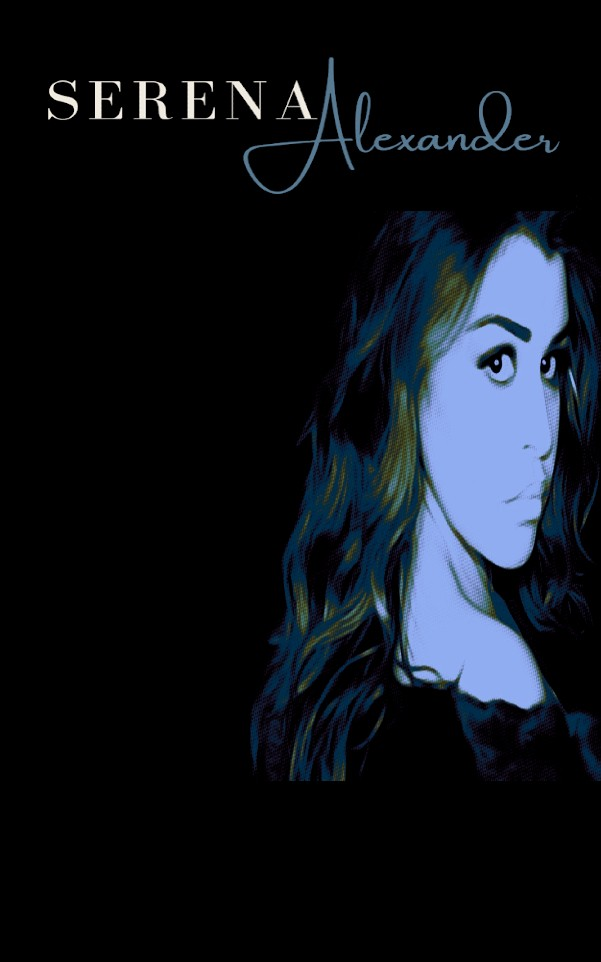
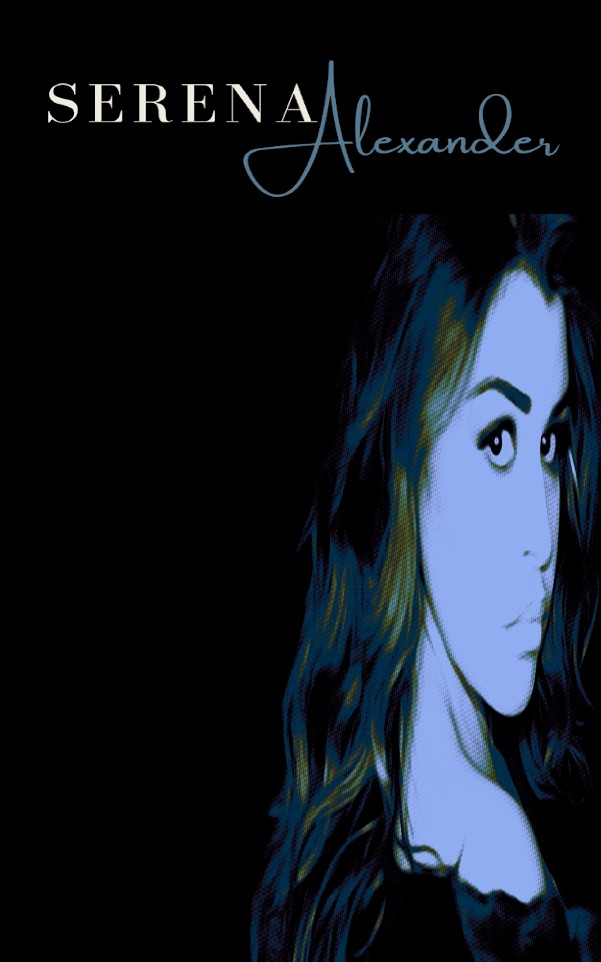
Completed first iteration of mobile site

diff --git a/style.css b/style.css
@@ -9,30 +9,31 @@ body, html {
     font-weight: 400;
     font-style: normal;
     text-align: center;
+    font-size: 1.0919rem;
 }
-.item-list{
-    list-style-type: none;
-    color: #FFFFFF;
-    font-family: "aileron", sans-serif;
-}
+
 a {
     color: #FFFFFF;
 }
-#email {
-    font-weight: 700;
+
+a:link, a:visited {
+    text-decoration: none;
 }
+
 #events-headline {
     color: #A9B369;
     font-family: "aileron", sans-serif;
     font-weight: 700;
+    font-size: 1.2419rem;
 }
 .events-show {
     color: #FFFFFF;
     font-family: "aileron", sans-serif;
     font-weight: 700;
     padding-bottom: 5%;
+    font-size: 0.9919rem;
 }
-.bg {
+.bg-mobile {
     background-image: url("assets/mobile.jpg");
     height: 50%;
     background-repeat: no-repeat;
@@ -46,16 +47,74 @@ a {
 }
 #bio, #events {
     text-align: center;
+    margin-left: 3%;
+    margin-right: 3%;
 }
 /* Social Media Icons*/
 [class*="fa-square"] {
     color: #577992;
-    padding-right: 4%;
+    padding-right: 2%;
     padding-bottom: 6%;
 }
+.fa-mobile{
+    padding-left: 2%;
+}
+.fa {
+    padding: 2.5%;
+    font-size: 2rem;
+    width: 4%;
+    text-align: center;
+    text-decoration: none;
+    border-radius: 50%;
+    margin-right: 1.5%;
+}
+  
+/* Add a hover effect if you want */
+.fa:hover {
+    opacity: 0.7;
+}
+.fa-facebook {
+    background: #577992;
+    color: #000000;
+    border-radius: 50%;
+  }
+.fa-twitter {
+    background: #577992;
+    color: #000000;
+    border-radius: 50%;
+}
+.fa-youtube {
+    background: #577992;
+    color: #000000;
+    border-radius: 50%;
+}  
+.fa-instagram {
+    background: #577992;
+    color: #000000;
+    border-radius: 50%;
+}
+/**********************/
+#email-footer {
+    color: #FFFFFF;
+    font-size: 0.9831rem;
+    font-family: "aileron", sans-serif;
+    font-weight: 700;
+    text-align: center;
+}
+#socials-list{
+    text-align: center;
+    margin-top: 5%;
+    padding-top: 2%;
+    padding-bottom: 10%;
+}
+#contact {
+    display: none;
+}
+
+
 /*=================== Tablet ====================================*/
 @media only screen and (min-width: 601px){
-    .bg {
+    .bg-tab {
         background-image: url("assets/tablet.jpg");
         height: 100%;
         background-repeat: no-repeat;
@@ -63,13 +122,40 @@ a {
         background-size: cover;
         background-color: #000000;
         max-width: 100%;
-    
     }
+    .artist-info{
+        position: relative;
+        top: 15%;
+        width: 45%;
+        padding: 5%;
+    }
+    .item-list {
+        padding-left: 0;
+    }
+    [class*="fa-square"] {
+        color: #577992;
+        padding-right: 2%;
+        padding-bottom: 2%;
+    }
+    #bio {
+        color: #F0EBE1;
+        font-family: "aileron", sans-serif;
+        font-weight: 400;
+        font-style: normal;
+        text-align: left;
+    }
+    #events {
+        text-align: left;
+    }
+    .bg-mobile {
+        display: none;
+    }
+
 }
 
 /*=================== Desktop ====================================*/
 @media only screen and (min-width: 1280px){
-    .bg {
+    .bg-desk {
         background-image: url("assets/desktop.jpg");
         height: 100%;
         background-repeat: no-repeat;
@@ -77,6 +163,45 @@ a {
         background-size: cover;
         background-color: #000000;
         max-width: 100%;
-    
+    }
+    .artist-info{
+        position: relative;
+        top: 25%;
+        width: 45%;
+        padding: 5%;
+    }
+    .item-list {
+        padding-left: 0;
+    }
+    [class*="fa-square"] {
+        color: #577992;
+        padding-right: 2%;
+        padding-bottom: 2%;
+    }
+    #bio {
+        color: #F0EBE1;
+        font-family: "aileron", sans-serif;
+        font-weight: 400;
+        font-style: normal;
+        text-align: left;
+    }
+    #events {
+        text-align: left;
+    }
+    .bg-mobile, #mobile-footer {
+        display: none;
+    }
+    #contact {
+        display: inherit;
+        padding-left: 3%;
+        width: 100%;
+    }
+    .item-list{
+        list-style-type: none;
+        color: #FFFFFF;
+        font-family: "aileron", sans-serif;
+    }
+    #email {
+        font-weight: 700;
     }
 }

diff --git a/index.html b/index.html
@@ -8,10 +8,11 @@
         <meta name="viewport" content="width=device-width, initial-scale=1.0">
         <link rel="stylesheet" href="style.css">
         <link rel="stylesheet" href="https://use.typekit.net/ugv3ygy.css">
+        <link rel="stylesheet" href="https://cdnjs.cloudflare.com/ajax/libs/font-awesome/4.7.0/css/font-awesome.min.css">
         <script src="https://kit.fontawesome.com/bd012d931d.js" crossorigin="anonymous"></script>
     </head>
-    <body>
-        <div class="bg" id="background-img">
+    <body class="bg-desk bg-tab">
+        <div id="background" class="bg-mobile">
         </div>
         <div class="artist-info">
             <div id="bio">
@@ -21,23 +22,19 @@
                     pushes the boundaries of pop music. I honed my singing skills at the American Musical 
                     and Dramatic Academy and have been recognized locally for my performances 
                     and hosting roles. 
-                </p>
-                <p>
                     In addition to my artistic career, I have a business degree, triumphed in singing competitions 
                     and  I've even performed for the President of Sicily! 
-                </p>
-                <p>
                     I'm currently writing new music that blends my eclectic influences with fresh ideas.
                 </p>
             </div>
             <div id="contact">
-                <div>
+                <div id="desktop-socials">
                     <ul id="socials-list" class="item-list">
                         <li id="instagram" class="contact-no-bullet"><a href="https://www.instagram.com/serena.singer/" target="_blank" ><i class="fa-brands fa-square-instagram fa-xl"></i>@serena.singer</a></li>
                         <li id="twitter" class="contact-no-bullet"><a href="https://twitter.com/serenasinger8" target="_blank"><i class="fa-brands fa-square-twitter fa-xl"></i>@serenasinger8</a></li>
                         <li id="youtube" class="contact-no-bullet"><a href="https://www.youtube.com/@serenasinger1035" target="_blank"><i class="fa-brands fa-square-youtube fa-xl"></i>@serenasinger1035</a></li>
                         <li id="facebook" class="contact-no-bullet"><a href="https://www.facebook.com/serenasingerinc" target="_blank"><i class="fa-brands fa-square-facebook fa-xl"></i>Facebook.com/serenasingerinc</a></li>
-                        <li id="email" class="contact-no-bullet"><a href=mailto:"serena@serenasinger.com"><i class="fa-solid fa-square-envelope fa-xl    "></i>serena@serenasinger.com</a></li>
+                        <li id="email" class="contact-no-bullet"><a href=mailto:"serena@serenasinger.com"><i class="fa-solid fa-square-envelope fa-xl"></i>serena@serenasinger.com</a></li>
                     </ul>
                 </div>
             </div>
@@ -47,6 +44,15 @@
                 <p class="events-show"><a href="https://www.empireoutlets.nyc/events/summer-nights-vendor-market/" target="_blank">7/14/23 EMPIRE OUTLETS 5:30PM-6:30PM</a></p>
                 
             </div>
+            <div id="mobile-footer">
+                <div id="email-footer" class="contact-no-bullet"><a href="mailto:serena@serenasinger.com"><i class="fa-solid fa-square-envelope fa-2xl"></i>SERENA@SERENASINGER.COM</a></div>
+                <div id="socials-list">
+                    <a id="instagram" class="fa fa-instagram contact-no-bullet" href="https://www.instagram.com/serena.singer/" target="_blank" ></a>
+                    <a id="twitter" class="fa fa-twitter contact-no-bullet" href="https://twitter.com/serenasinger8" target="_blank"></a>
+                    <a id="youtube" class="fa fa-youtube contact-no-bullet" href="https://www.youtube.com/@serenasinger1035" target="_blank"></a>
+                    <a id="facebook" class="fa fa-facebook contact-no-bullet" href="https://www.facebook.com/serenasingerinc" target="_blank"></a>
+                </div>
+            </div>    
         </div>
     </body>
 </html>
